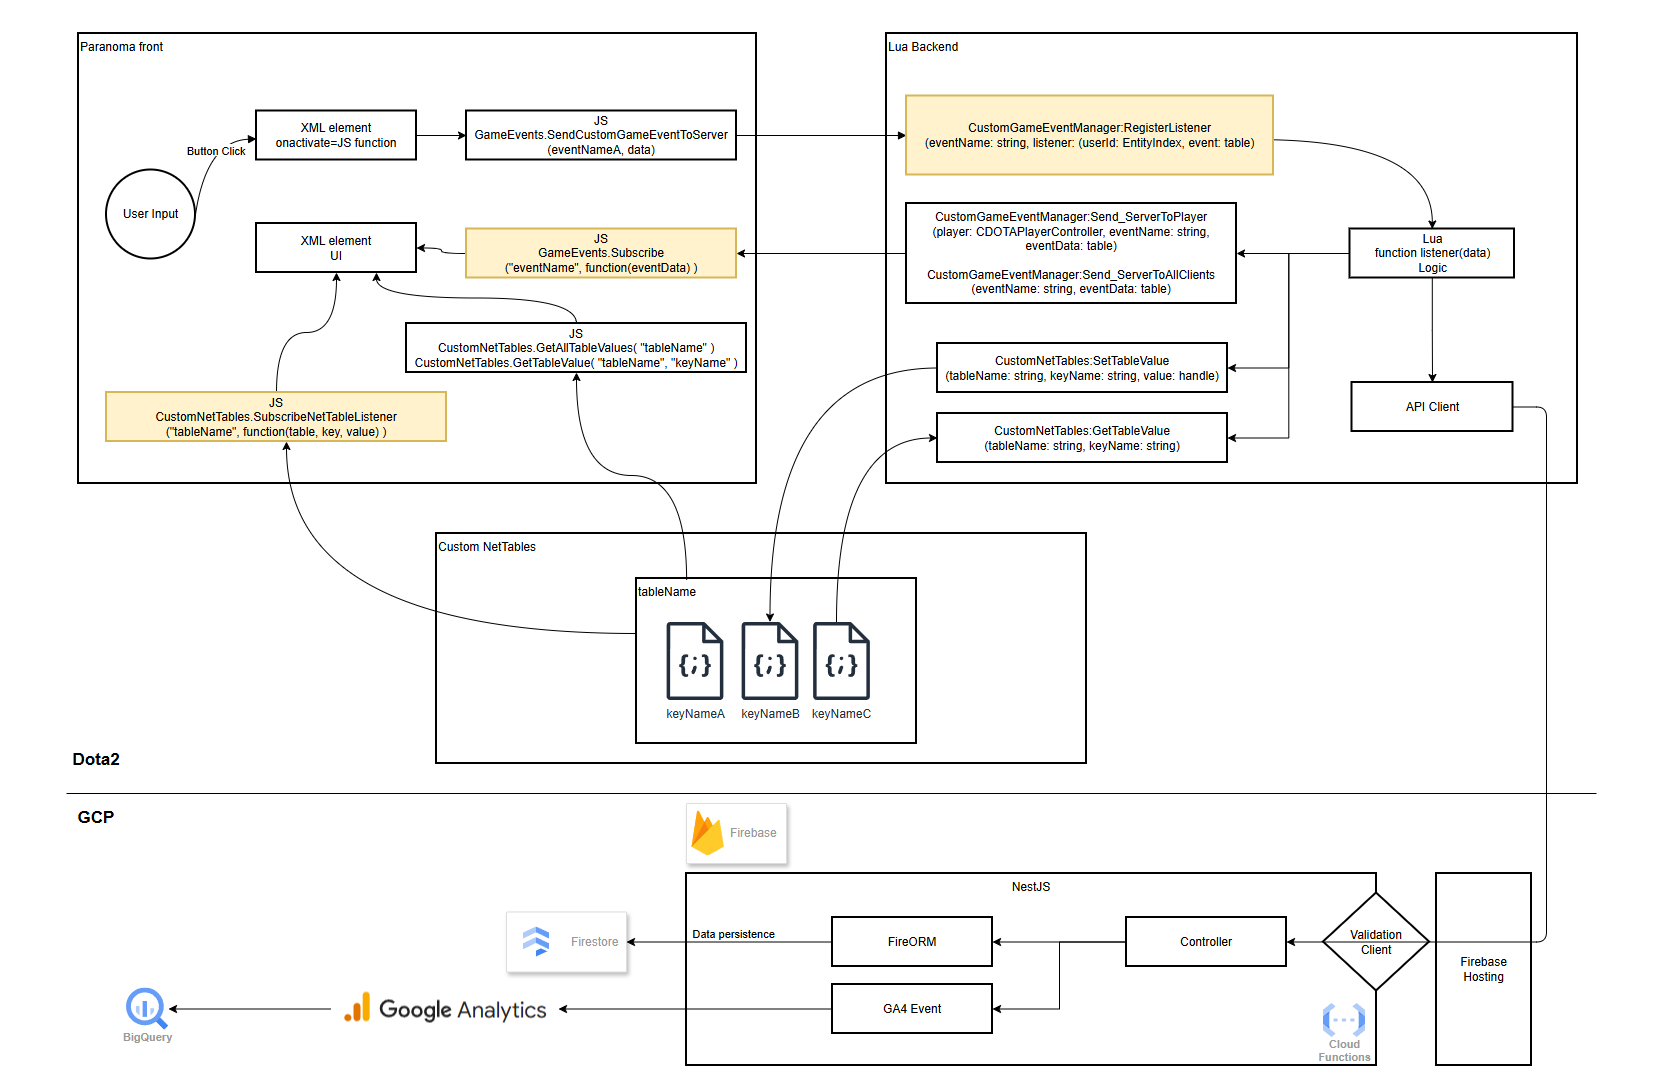
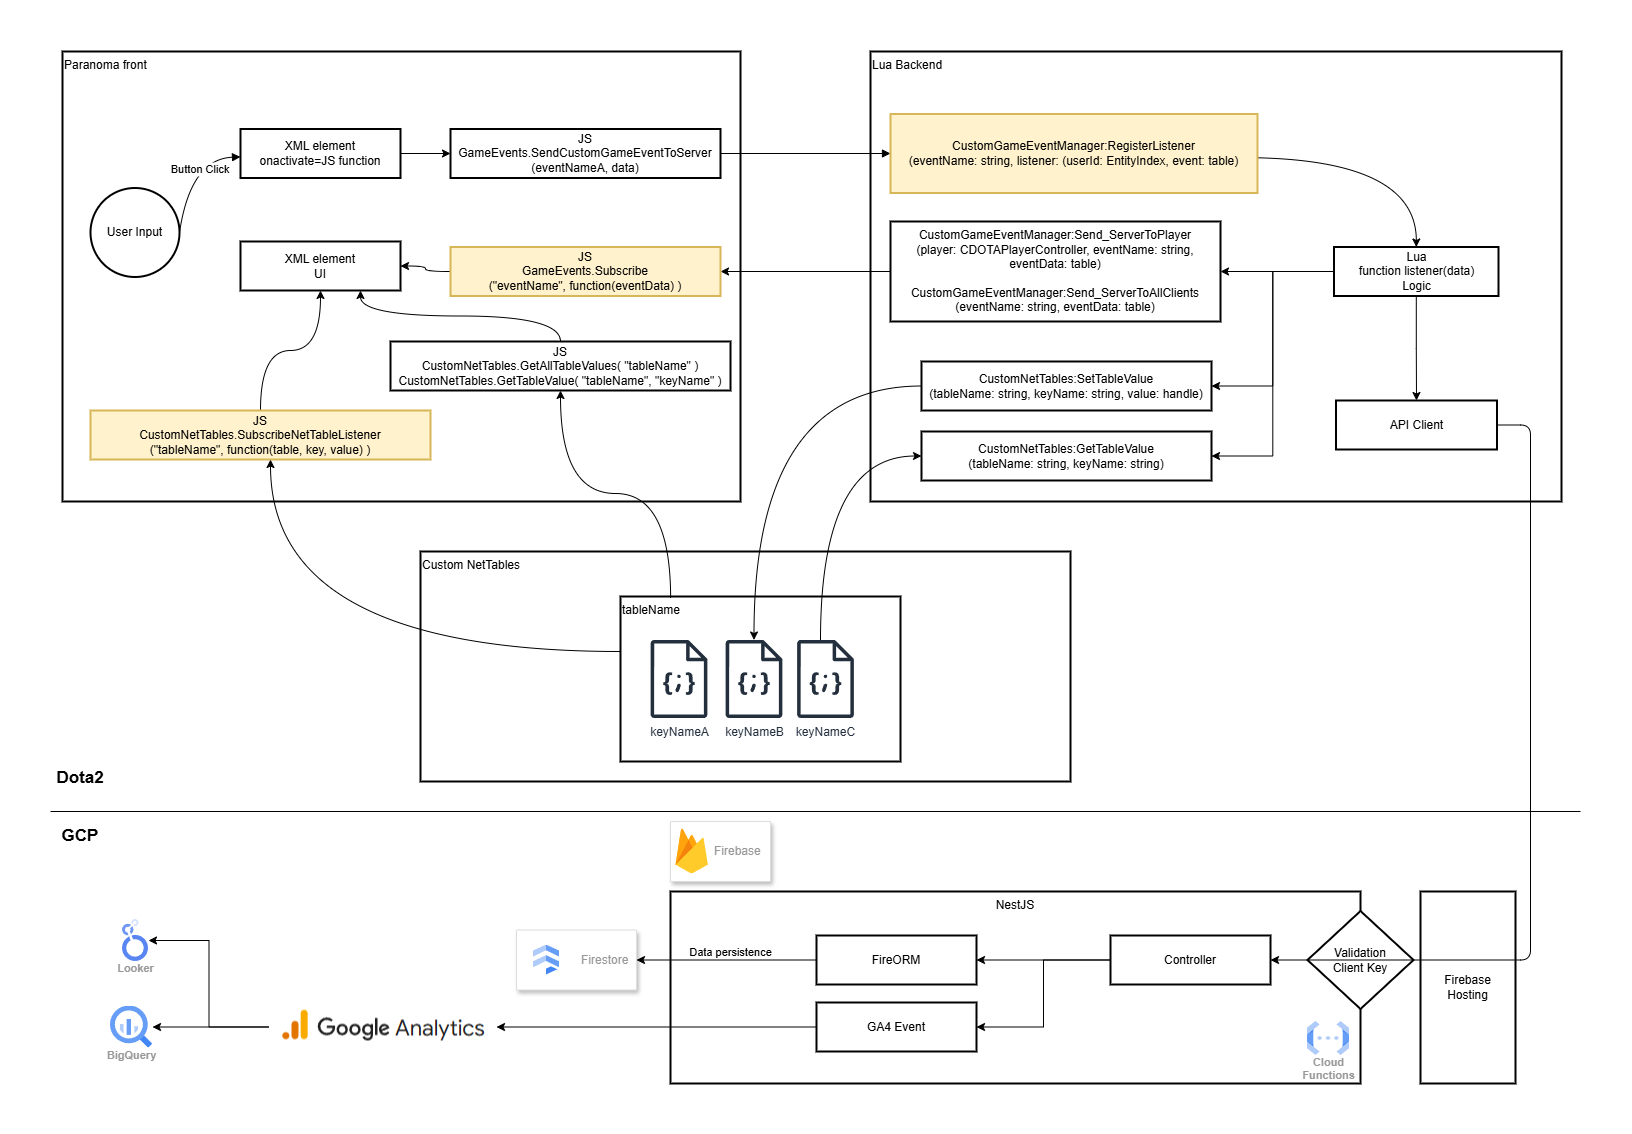
Update dataflow (#1433)
Former-commit-id: 49abae36e2243eedf83a0089660af69791cf987c

diff --git a/README.md b/README.md
@@ -143,6 +143,10 @@ Panorama UI with webpack, TypeScript and React.
 - **[game/*]:** 会和 `dota 2 beta/game/dota_addons/your_addon_name` 同步更新
 - **[content/*]:** 会和 `dota 2 beta/content/dota_addons/your_addon_name` 同步更新
 
+## Data Flow
+
+![Data Flow](docs/drawio/dataflow.png)
+
 # 维护指南
 
 ## Console报错
